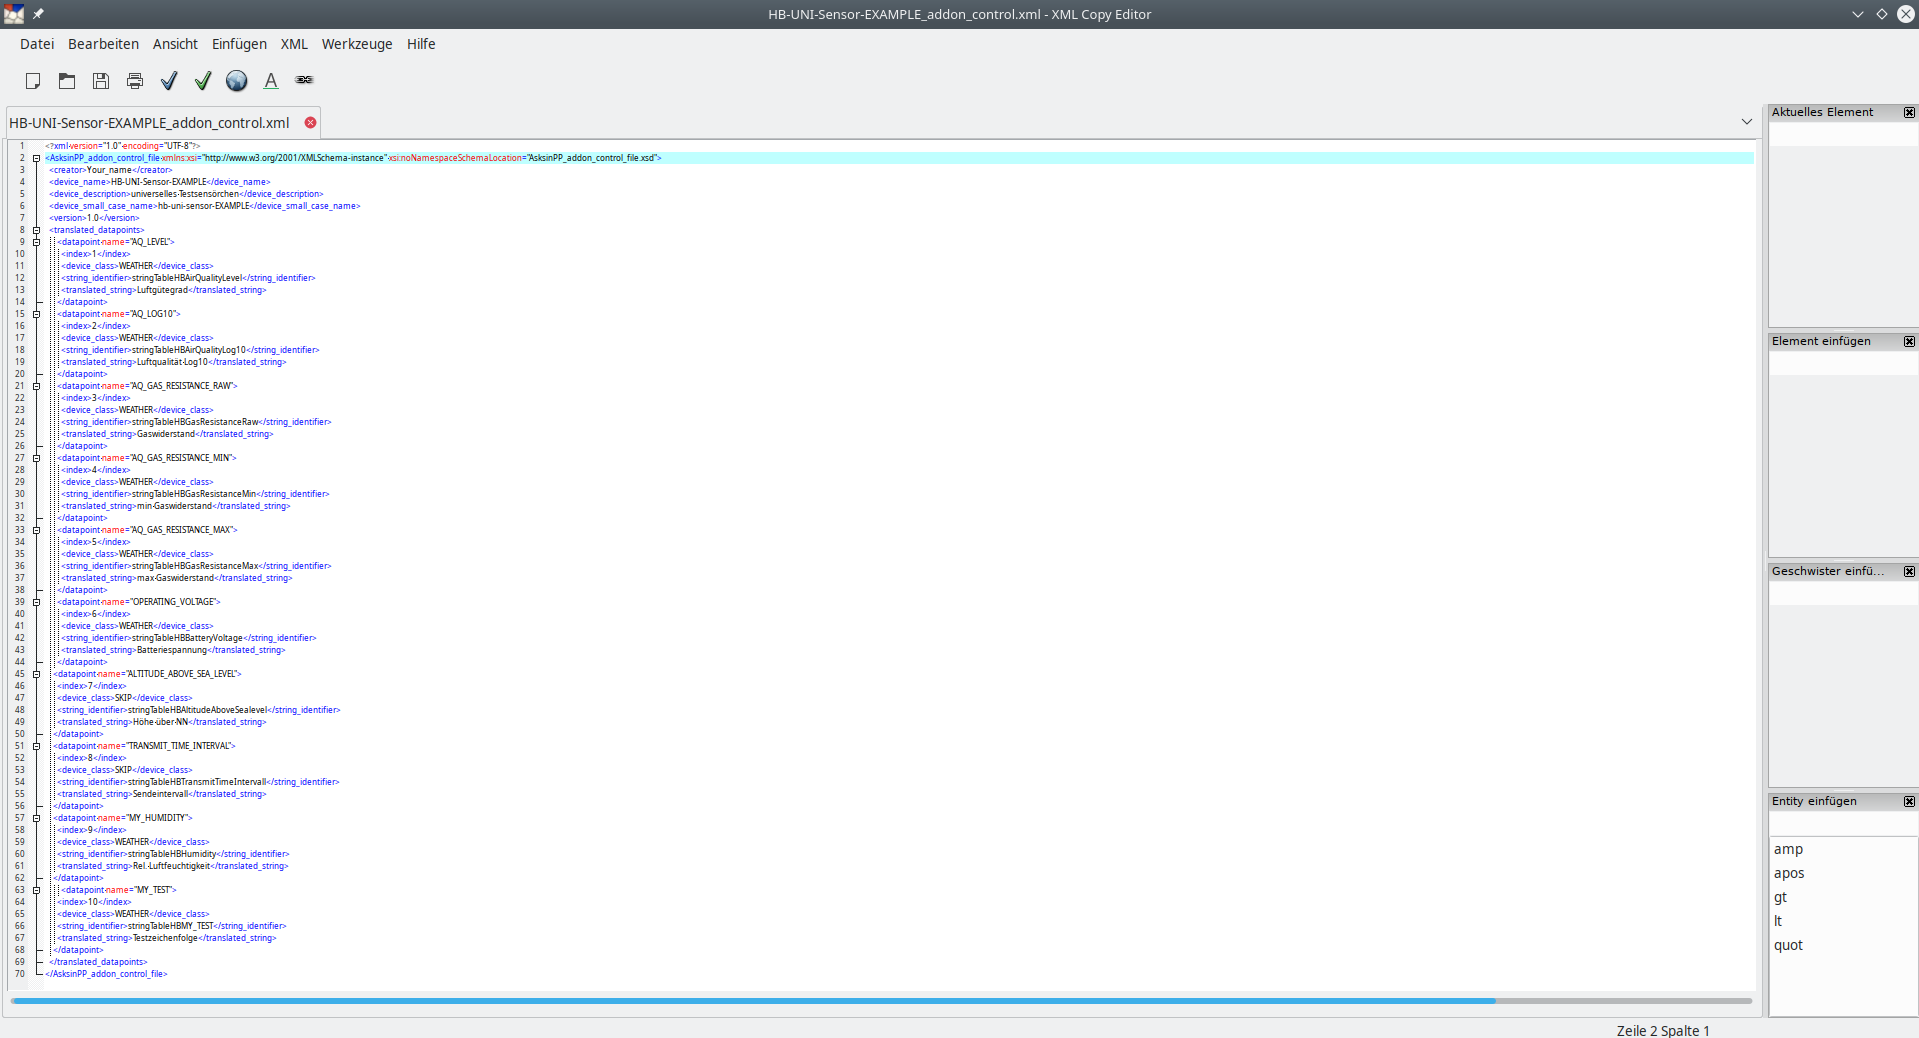
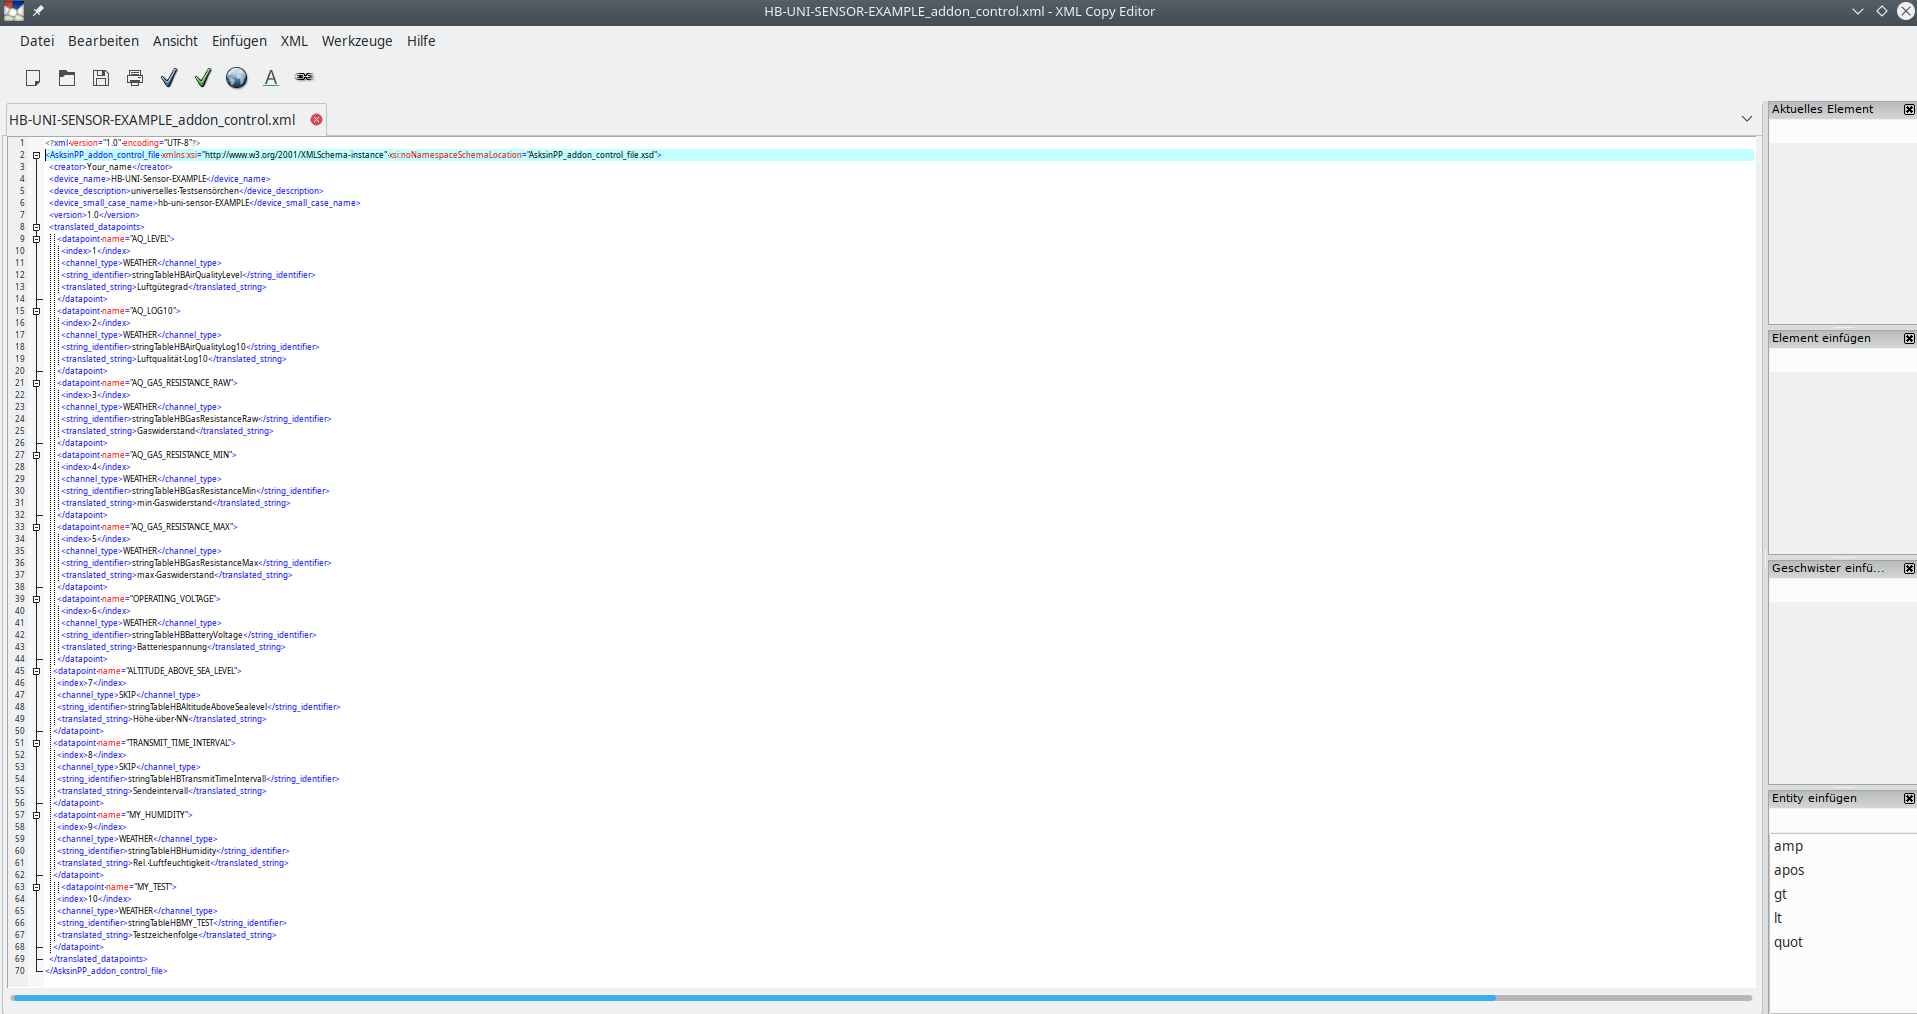
AsksinPP_addon_files_generator: documentation update for V0.93

diff --git a/AsksinPP_developments/addons/hb-ep-devices-addon/CCU_RM/AsksinPP_addon_files_generator/README.md b/AsksinPP_developments/addons/hb-ep-devices-addon/CCU_RM/AsksinPP_addon_files_generator/README.md
@@ -2,11 +2,11 @@
 # Groovy generator script [AsksinPP_addon_generator.groovy](./AsksinPP_addon_generator.groovy) for automatically generate device specific install and uninstall scripts [![License: CC BY-NC-SA 4.0](https://img.shields.io/badge/License-CC%20BY--NC--SA%204.0-lightgrey.svg)](https://creativecommons.org/licenses/by-nc-sa/4.0/) [![Hits](https://hits.seeyoufarm.com/api/count/incr/badge.svg?url=https%3A%2F%2Fgithub.com%2FFUEL4EP%2FHomeAutomation%2Ftree%2Fmaster%2FAsksinPP_developments%2Faddons%2Fhb-ep-devices-addon%2FCCU_RM%2FAsksinPP_addon_files_generator&count_bg=%2379C83D&title_bg=%23555555&icon=&icon_colorfile:///usr/share/applications/ghostwriter.desktop=%23E7E7E7&title=hits&edge_flat=false)](https://hits.seeyoufarm.com)
 
 
-# DO NOT USE THIS SCRIPT YET. IT REQUIRES SOME CHANGES. PLEASE WAIT A BIT. THANKS.
+# Since this generator software has beta status only, please check the generated install and uninstall scripts carefully before using them in a production version of an addon.
 
  
 
-- creates install and uninstall scripts required in [../src/addon/](../src/addon/)
+- Creates install and uninstall scripts required in [../src/addon/](../src/addon/)
 
 - The following software installations are prereqisites:
 
@@ -21,10 +21,10 @@
 	+ copy the [example XML control](_work/HB-UNI-Sensor-EXAMPLE/HB-UNI-Sensor-EXAMPLE_addon_control.xml) in your new device's working directory to your new sensors XML control file <e.g. HB-UNI-Sensor-XXX-YYYY_addon_control.xml>. File extension needs to be '.xml'.
 	+ change to your working directory '[<Device_name: here HB-UNI-Sensor-EXAMPLE>](./_work/HB-UNI-Sensor-EXAMPLE)
 	+ edit your new sensors XML control file <e.g. HB-UNI-Sensor-XXX-YYYY_addon_control.xml> with the XML Copy Editor.
-	+ you should get [this](./Images/HB-UNI-Sensor-EXAMPLE_addon_control.xml.png) window.
+	+ you should get [this](./Images/HB-UNI-Sensor-EXAMPLE_addon_control.xml.png) xmlcopyeditor window.
 	+ now edit in XML Copy Editor the XML elements according to your needs:
 		* add or delete data_points according to your new device's needs
-		* the element device_class can be chosen arbitrarily for each datapoint. If you want to skip it, enter 'SKIP'.
+		* the element channel_type can be chosen arbitrarily for each datapoint. If you want to skip it, enter 'SKIP'. It should match the channel type of the datapoint in the concerning rftypes XML file.
 		* the element device_description is automatically HTML4 encoded by the generator script, so no need to take care e.g. of Umlauts here
 		* the elements translated_string are automatically URL encoded by the generator script, so no need to take care e.g. of Umlauts here
 		* after having done all changes, please check your XML:
@@ -36,6 +36,7 @@
 - next you will be asked for the file name of the generated XML control file, please enter it e.g. <HB-UNI-Sensor-XXX-YYYY_addon_control.xml> .
 - the generator script will create an install and an uninstall script in the working directory
 - check the created install and an uninstall script before you yuse it within an AsksinPP addon
+- a [make_all.bsh](./make_all.bsh) bash script is provided for reference. Please adapt it to your needs.
 
 
 ## Lizenz
